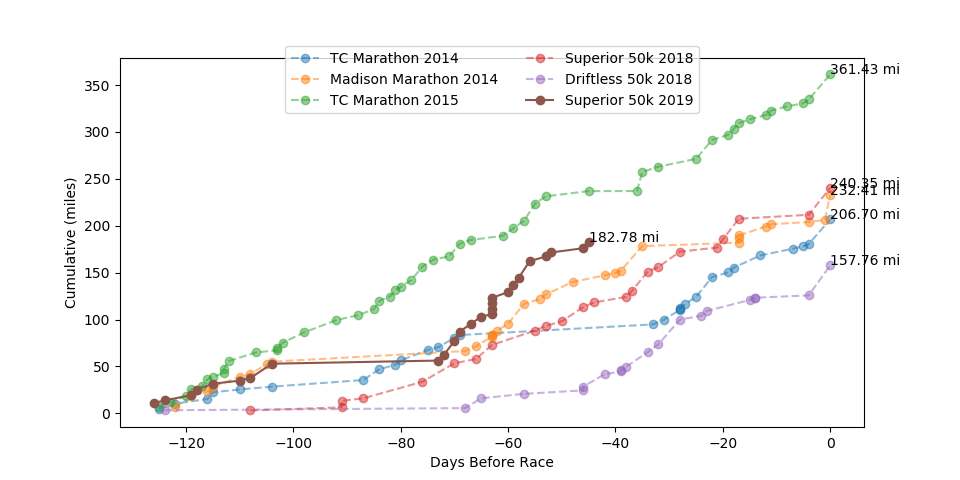
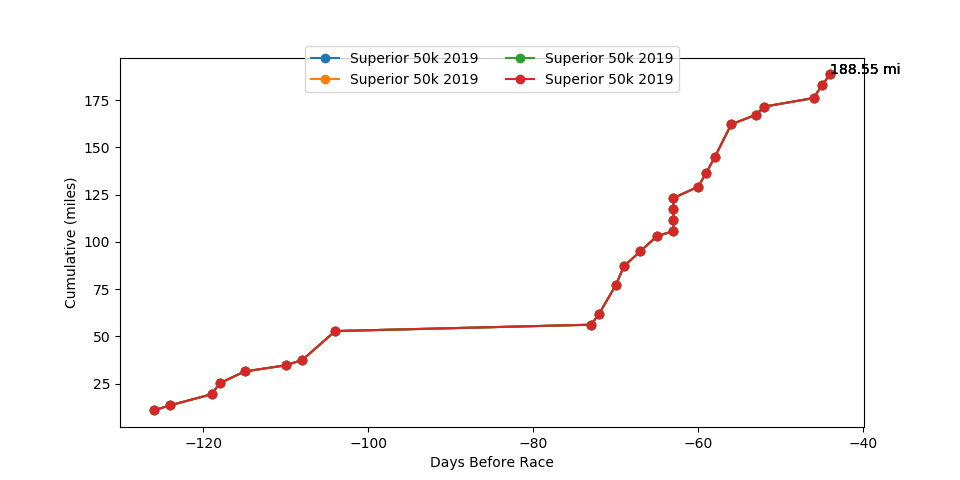
got dummy running app working, showing plotly results

diff --git a/posts/RaceTraining/test.html b/posts/RaceTraining/test.html
@@ -16,7 +16,6 @@
 <body>
 
 <div>
-    <p>this is some text</p>
     <div>
         <form>
             {% for field in form %}

diff --git a/posts/RaceTraining/get_strava_data.py b/posts/RaceTraining/get_strava_data.py
@@ -35,9 +35,9 @@ def gather_training_seasons(code, matplotlib=False):
                          'TC Marathon 2015': datetime.datetime(2015, 10, 4),
                          'Superior 50k 2018': datetime.datetime(2018, 5, 19),
                          'Driftless 50k 2018': datetime.datetime(2018, 9, 29),
-                         'Superior 50k 2019': datetime.datetime(2019, 5, 18)})
+                         'Superior 50k 2019': datetime.datetime(2019, 5, 18),
+                         'Elkhorn 50m 2019': datetime.datetime(2019, 9, 3)})
     # races = OrderedDict({'Superior 50k 2019': datetime.datetime(2019, 5, 18)})
-    # 'Elkhorn 50m 2019': datetime.datetime(2019, 9, 3)})
     wks_18 = datetime.timedelta(weeks=18)
     day_1 = datetime.timedelta(days=1)
     wks_1 = datetime.timedelta(weeks=1)
@@ -59,7 +59,7 @@ def gather_training_seasons(code, matplotlib=False):
             print(k)
             days_before, dist, cum = get_training_data(code, v - wks_18, v + day_1)
             wdb, wd, wc = get_training_data(code, v - days_to_race - wks_1, v - days_to_race + day_1)
-            if k == list(races.keys())[-1]:
+            if v > datetime.datetime.today():  # read: if race day is after today, ie in the future, then solid line plot
                 dax.plot(days_before, dist, 'o-', label=k)
                 cax.plot(days_before, cum, 'o-', label=k)
                 wax1.plot(wdb, wd, 'o-', label=k)
@@ -100,15 +100,25 @@ def gather_training_seasons(code, matplotlib=False):
         dist_traces = []
         cum_traces = []
         wk_traces = []
+        d_ann = {'x': [], 'y': []}
+        # c_ann = {'x': [], 'y': []}
+        # w_ann = {'x': [], 'yd': [], 'yc': []}
         colors = plotly.colors.DEFAULT_PLOTLY_COLORS
         for i, (k, v) in enumerate(races.items()):
             print(k)
-            if k == list(races.keys())[-1]:
+            if v > datetime.datetime.today():  # read: if race day is after today, ie in the future, then solid line plot
                 op = 1.
             else:
                 op = 0.5
             days_before, dist, cum = get_training_data(code, v - wks_18, v + day_1)
             wdb, wd, wc = get_training_data(code, v - days_to_race - wks_1, v - days_to_race)
+            # d_ann['x'].append(days_before[-1])
+            # c_ann['x'].append(days_before[-1])
+            # w_ann['x'].append(wdb[-1])
+            # d_ann['y'].append(dist[-1])
+            # c_ann['y'].append(cum[-1])
+            # w_ann['yd'].append(wd[-1])
+            # w_ann['yc'].append(wc[-1])
             dist_traces.append(go.Scatter(
                 x=days_before,
                 y=dist,
@@ -146,31 +156,74 @@ def gather_training_seasons(code, matplotlib=False):
                 showlegend=False
             ))
 
+        # append annotation traces
+        dist_traces.append(go.Scatter(
+            x=[t.x[-1] for t in dist_traces if len(t.x) > 0],
+            y=[t.y[-1] for t in dist_traces if len(t.y) > 0],
+            text=[f'{round(t.y[-1], 1)}' for t in dist_traces if len(t.y) > 0],
+            mode='text',
+            textposition='middle left',
+            showlegend=False,
+            hoverinfo='none'
+        ))
+        cum_traces.append(go.Scatter(
+            x=[t.x[-1] for t in cum_traces if len(t.x) > 0],
+            y=[t.y[-1] for t in cum_traces if len(t.y) > 0],
+            text=[f'{round(t.y[-1], 1)}' for t in cum_traces if len(t.y) > 0],
+            mode='text',
+            textposition='middle left',
+            showlegend=False,
+            hoverinfo='none'
+        ))
+        wk_annotations = {'dx': [t.x[-1] for t in wk_traces if (len(t.x) > 0 and t.yaxis == 'y2')],
+                          'dy': [t.y[-1] for t in wk_traces if (len(t.x) > 0 and t.yaxis == 'y2')],
+                          'dt': [f'{round(t.y[-1], 1)}' for t in wk_traces if (len(t.x) > 0 and t.yaxis == 'y2')],
+                          'cx': [t.x[-1] for t in wk_traces if (len(t.x) > 0 and t.yaxis is None)],
+                          'cy': [t.y[-1] for t in wk_traces if (len(t.x) > 0 and t.yaxis is None)],
+                          'ct': [f'{round(t.y[-1], 1)}' for t in wk_traces if (len(t.x) > 0 and t.yaxis is None)]}
+        wk_traces.append(go.Scatter(
+            x=wk_annotations['dx'],
+            y=wk_annotations['dy'],
+            text=wk_annotations['dt'],
+            yaxis='y2',
+            mode='text',
+            textposition='middle left',
+            showlegend=False,
+            hoverinfo='none',
+        ))
+        wk_traces.append(go.Scatter(
+            x=wk_annotations['cx'],
+            y=wk_annotations['cy'],
+            text=wk_annotations['ct'],
+            mode='text',
+            textposition='middle left',
+            showlegend=False,
+            hoverinfo='none',
+        ))
+
         dlayout = go.Layout(
-            legend=dict(orientation='h',
-                        x=0.5,
-                        y=1),
             xaxis=dict(
-                title='Days before race day'
+                title='Days before race'
             ),
             yaxis=dict(
-                title='Distance (miles)'
-            )
+                title='Distance (miles)',
+                hoverformat='.2f'
+            ),
         )
         clayout = go.Layout(
-            legend=dict(orientation='h'),
+            # legend=dict(orientation='h'),
             xaxis=dict(
-                title='Days before race day'
+                title='Days before race'
             ),
             yaxis=dict(
-                title='Cumulative training distance (miles)'
+                title='Cumulative (miles)'
             )
         )
 
         wlayout = go.Layout(
-            legend=dict(orientation='h'),
+            # legend=dict(orientation='h'),
             xaxis=dict(
-                title='Days before race day',
+                title='Prior week training',
             ),
             yaxis=dict(
                 title='Distance (miles)',

diff --git a/posts/RaceTraining/running_app.py b/posts/RaceTraining/running_app.py
@@ -4,6 +4,7 @@ from bottle import route, run, template, request, redirect, view, jinja2_view
 from wtforms import Form, SubmitField
 from posts.RaceTraining.get_strava_data import gather_training_seasons
 
+
 class MyForm(Form):
     hi = SubmitField('Get Strava Data')
 
